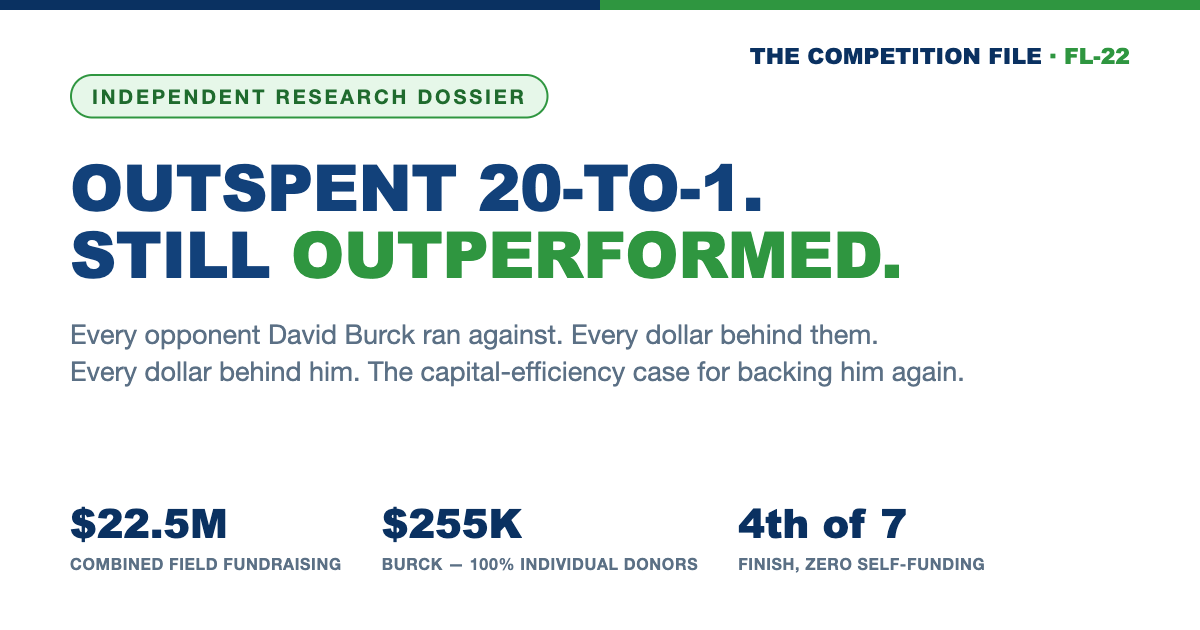
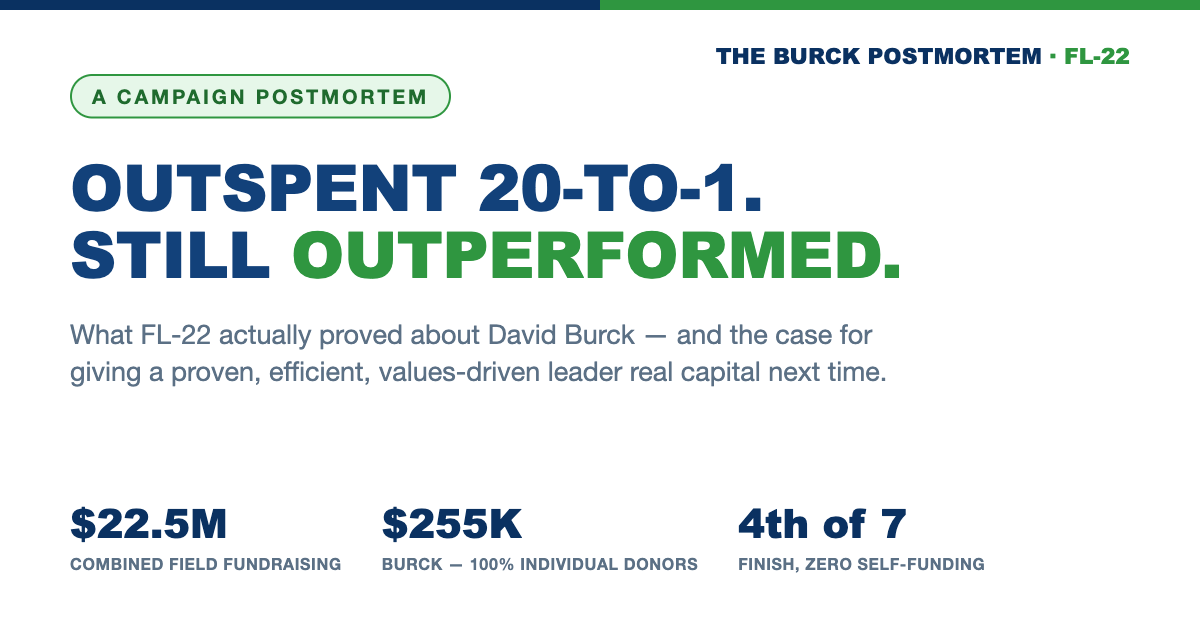
Reframe site as campaign postmortem and investment thesis
Rename from opposition-research framing to a postmortem analysis:
new title/brand (The Burck Postmortem), rewritten hero and a new
"bigger picture" section making the case for backing David Burck as
a proven, capital-efficient, values-driven leader worth investing in
beyond just his next House race. Updated OG thumbnail to match.

Generated with [Devin](https://devin.ai)

Changed region(s): [[0.0617, 0.5127, 0.8017, 0.6333], [0.0617, 0.0905, 0.4625, 0.2111], [0.5858, 0.0603, 0.8633, 0.1206]]

diff --git a/index.html b/index.html
@@ -3,14 +3,14 @@
 <head>
 <meta charset="UTF-8">
 <meta name="viewport" content="width=device-width, initial-scale=1.0">
-<title>The Case for Capital: David Burck, FL-22</title>
-<meta name="description" content="An independent research dossier on the 2026 FL-22 Republican primary: David Burck's competition, every dollar behind them, every dollar behind him, and the capital-efficiency case for backing him again.">
-<meta property="og:title" content="The Case for Capital: David Burck, FL-22">
-<meta property="og:description" content="Every opponent. Every dollar. The capital-efficiency case for David Burck's next run.">
-<meta property="og:image" content="https://aeventures.github.io/burck-opposition-report/assets/og.png">
+<title>The Burck Postmortem — A Campaign Analysis & The Case for What's Next</title>
+<meta name="description" content="A postmortem analysis of David Burck's 2026 FL-22 campaign: what happened, what it revealed about his ability as a candidate, and why Christians and politically engaged donors looking for a leader worth backing all the way to the top of the ticket should be paying attention.">
+<meta property="og:title" content="The Burck Postmortem — A Campaign Analysis & The Case for What's Next">
+<meta property="og:description" content="What FL-22 actually proved about David Burck — and why properly capitalized, he could be one of the most consequential political leaders of his generation.">
+<meta property="og:image" content="https://aeventures.github.io/burck-postmortem/assets/og.png">
 <meta property="og:image:width" content="1200">
 <meta property="og:image:height" content="630">
-<meta property="og:url" content="https://aeventures.github.io/burck-opposition-report/">
+<meta property="og:url" content="https://aeventures.github.io/burck-postmortem/">
 <meta property="og:type" content="website">
 <meta name="twitter:card" content="summary_large_image">
 <link rel="stylesheet" href="css/style.css">
@@ -18,10 +18,10 @@
 <body>
 <header class="site">
   <div class="wrap">
-    <div class="brand">THE COMPETITION FILE <span>· FL-22</span></div>
+    <div class="brand">THE BURCK POSTMORTEM <span>· FL-22</span></div>
     <nav class="main">
       <a href="index.html" class="active">Thesis</a>
-      <a href="opponents.html">The Competition</a>
+      <a href="opponents.html">The Field</a>
       <a href="money.html">The Money</a>
       <a href="donors.html">Burck's Donors</a>
       <a href="treasurer-reports.html">Treasurer's Reports</a>
@@ -34,19 +34,22 @@
 
 <section class="hero">
   <div class="wrap">
-    <span class="eyebrow">Independent Research Dossier · 2026 Cycle</span>
-    <h1>Outspent 20-to-1. Still <span class="accent">outperformed</span> half the field.</h1>
+    <span class="eyebrow">A Campaign Postmortem · 2026 Cycle</span>
+    <h1>He was outspent 20-to-1. He still <span class="accent">outperformed</span> half the field.</h1>
     <p class="lede">
-      David Burck ran for Florida's 22nd Congressional District against a field that raised and spent
-      roughly <strong>$22.5 million</strong> combined — most of it self-funded by millionaires or backed
-      by outside Super PACs. Burck raised <strong>$255,073</strong>, entirely from individual donors,
-      with <strong>zero</strong> PAC money and <strong>zero</strong> personal loans, and still out-drew
-      three better-funded rivals at the ballot box. This site documents exactly who and what stood in his
-      way — dollar for dollar — and makes the case that properly capitalized, he is a serious contender.
+      This is not opposition research. It's a postmortem — a clear-eyed look back at David Burck's 2026
+      run in Florida's 22nd Congressional District, what it actually proved about him as a candidate, and
+      what it means for what comes next. David raised <strong>$255,073</strong>, entirely from individual
+      donors, with <strong>zero</strong> PAC money and <strong>zero</strong> personal loans, in a field that
+      raised and spent roughly <strong>$22.5 million</strong> combined — most of it self-funded by
+      millionaires or backed by outside Super PACs. He still out-drew three better-funded rivals at the
+      ballot box. This site lays out exactly what happened, dollar for dollar, and makes the case that a
+      candidate this efficient, properly capitalized, is worth serious, sustained investment — not just for
+      the next House race, but for whatever comes after it.
     </p>
     <div class="cta-row">
       <a class="btn gold" href="efficiency.html">See the efficiency case →</a>
-      <a class="btn ghost" href="opponents.html">Meet the competition</a>
+      <a class="btn ghost" href="opponents.html">Understand the field →</a>
     </div>
   </div>
 </section>
@@ -110,6 +113,42 @@
       the purpose of briefing David Burck and his team on the competitive and financial landscape of his
       2026 race. It is not paid for by, or coordinated with, any campaign or committee. Every figure links
       to a primary source — see the <a href="sources.html">Sources &amp; Methodology</a> page.
+    </div>
+  </div>
+</section>
+
+<section>
+  <div class="wrap">
+    <div class="section-head">
+      <span class="kicker">The bigger picture</span>
+      <h2>This isn't just about one House race</h2>
+      <p class="dim">This is where the postmortem turns into an argument. It's this site's opinion — not a
+      neutral fact — but it's an opinion built directly on the numbers in the previous pages, and it's why
+      we think anyone thinking seriously about the future of conservative, Christian-aligned political
+      leadership should be paying attention to David Burck right now.</p>
+    </div>
+    <p>A Marine. A gang detective. A small business owner. A man who ran on service, not self-promotion, and
+    built a campaign entirely out of people who chose to back him with their own money — no self-funding,
+    no PAC checks, no shortcuts. And on a fraction of the resources of the candidates who beat him, he still
+    out-drew three of them. That combination — character, service, discipline under pressure, and proven
+    capital efficiency — is rare. Most candidates who raise this efficiently never get tested against a
+    field this well-funded. David has been, and the numbers held up.</p>
+    <p>Christians, business leaders, and politically engaged donors who say they want leaders of real
+    character in office, and who say they want their money to actually move the needle, have direct
+    evidence in front of them of both: a candidate whose values are consistent with public service before
+    ambition, and hard data showing he converts capital into results better than almost anyone else in this
+    race did. The honest read of David Burck's 2026 campaign isn't "he lost." It's "he was never properly
+    capitalized to compete with self-funded millionaires and national Super PACs — and he still nearly did."
+    Give a proven, efficient, values-driven leader like David real resources, and it is a legitimate,
+    numbers-backed question whether there is a ceiling on what he could accomplish — up to and including the
+    national stage.</p>
+    <div class="callout">
+      <strong>The ask.</strong><br><br>
+      If you are a donor, pastor, business leader, or political operative who believes the next generation
+      of conservative leadership should be built on service and character rather than personal wealth or
+      Super PAC dependency — David Burck is exactly the kind of candidate that thesis is supposed to
+      identify. Read the numbers for yourself, share this analysis with people who can act on it, and help
+      make sure the next time David runs, capital is no longer the variable holding him back.
     </div>
   </div>
 </section>

diff --git a/opponents.html b/opponents.html
@@ -3,18 +3,18 @@
 <head>
 <meta charset="UTF-8">
 <meta name="viewport" content="width=device-width, initial-scale=1.0">
-<title>The Competition — FL-22 Republican Primary Field</title>
-<meta property="og:title" content="The Competition — FL-22 Republican Primary Field">
-<meta property="og:image" content="https://aeventures.github.io/burck-opposition-report/assets/og.png">
+<title>The Field — What David Burck Was Up Against in FL-22</title>
+<meta property="og:title" content="The Field — What David Burck Was Up Against in FL-22">
+<meta property="og:image" content="https://aeventures.github.io/burck-postmortem/assets/og.png">
 <link rel="stylesheet" href="css/style.css">
 </head>
 <body>
 <header class="site">
   <div class="wrap">
-    <div class="brand">THE COMPETITION FILE <span>· FL-22</span></div>
+    <div class="brand">THE BURCK POSTMORTEM <span>· FL-22</span></div>
     <nav class="main">
       <a href="index.html">Thesis</a>
-      <a href="opponents.html" class="active">The Competition</a>
+      <a href="opponents.html" class="active">The Field</a>
       <a href="money.html">The Money</a>
       <a href="donors.html">Burck's Donors</a>
       <a href="treasurer-reports.html">Treasurer's Reports</a>
@@ -27,12 +27,13 @@
 
 <section class="hero" style="padding-bottom:20px;">
   <div class="wrap">
-    <span class="eyebrow">Field Report</span>
-    <h1>Everyone who stood in David's way.</h1>
-    <p class="lede">Seven Republicans qualified for the August 18, 2026 primary in FL-22. Here is every one
-    of them — where they came from, what they'd built, how much they raised, and exactly where they
-    finished. David Burck placed <strong>4th of 7</strong>, ahead of three rivals, despite being outspent
-    by all three candidates who beat him.</p>
+    <span class="eyebrow">Postmortem · The Field</span>
+    <h1>Understanding exactly who David ran against.</h1>
+    <p class="lede">Seven Republicans qualified for the August 18, 2026 primary in FL-22. To fairly evaluate
+    David's performance, you have to understand who else was in the race — where they came from, what
+    they'd built, how much they raised, and exactly where they finished. David Burck placed
+    <strong>4th of 7</strong>, ahead of three rivals, despite being outspent by all three candidates who
+    beat him.</p>
   </div>
 </section>
 

diff --git a/sources.html b/sources.html
@@ -4,17 +4,17 @@
 <meta charset="UTF-8">
 <meta name="viewport" content="width=device-width, initial-scale=1.0">
 <title>Sources &amp; Methodology</title>
-<meta property="og:title" content="Sources & Methodology — The Competition File">
-<meta property="og:image" content="https://aeventures.github.io/burck-opposition-report/assets/og.png">
+<meta property="og:title" content="Sources & Methodology — The Burck Postmortem">
+<meta property="og:image" content="https://aeventures.github.io/burck-postmortem/assets/og.png">
 <link rel="stylesheet" href="css/style.css">
 </head>
 <body>
 <header class="site">
   <div class="wrap">
-    <div class="brand">THE COMPETITION FILE <span>· FL-22</span></div>
+    <div class="brand">THE BURCK POSTMORTEM <span>· FL-22</span></div>
     <nav class="main">
       <a href="index.html">Thesis</a>
-      <a href="opponents.html">The Competition</a>
+      <a href="opponents.html">The Field</a>
       <a href="money.html">The Money</a>
       <a href="donors.html">Burck's Donors</a>
       <a href="treasurer-reports.html">Treasurer's Reports</a>

diff --git a/treasurer-reports.html b/treasurer-reports.html
@@ -5,16 +5,16 @@
 <meta name="viewport" content="width=device-width, initial-scale=1.0">
 <title>Treasurer's Reports — Every Committee, Line by Line</title>
 <meta property="og:title" content="Treasurer's Reports — Every Committee, Line by Line">
-<meta property="og:image" content="https://aeventures.github.io/burck-opposition-report/assets/og.png">
+<meta property="og:image" content="https://aeventures.github.io/burck-postmortem/assets/og.png">
 <link rel="stylesheet" href="css/style.css">
 </head>
 <body>
 <header class="site">
   <div class="wrap">
-    <div class="brand">THE COMPETITION FILE <span>· FL-22</span></div>
+    <div class="brand">THE BURCK POSTMORTEM <span>· FL-22</span></div>
     <nav class="main">
       <a href="index.html">Thesis</a>
-      <a href="opponents.html">The Competition</a>
+      <a href="opponents.html">The Field</a>
       <a href="money.html">The Money</a>
       <a href="donors.html">Burck's Donors</a>
       <a href="treasurer-reports.html" class="active">Treasurer's Reports</a>

diff --git a/money.html b/money.html
@@ -5,16 +5,16 @@
 <meta name="viewport" content="width=device-width, initial-scale=1.0">
 <title>The Money — Every Dollar Behind the Field, FL-22</title>
 <meta property="og:title" content="The Money — Every Dollar Behind the Field, FL-22">
-<meta property="og:image" content="https://aeventures.github.io/burck-opposition-report/assets/og.png">
+<meta property="og:image" content="https://aeventures.github.io/burck-postmortem/assets/og.png">
 <link rel="stylesheet" href="css/style.css">
 </head>
 <body>
 <header class="site">
   <div class="wrap">
-    <div class="brand">THE COMPETITION FILE <span>· FL-22</span></div>
+    <div class="brand">THE BURCK POSTMORTEM <span>· FL-22</span></div>
     <nav class="main">
       <a href="index.html">Thesis</a>
-      <a href="opponents.html">The Competition</a>
+      <a href="opponents.html">The Field</a>
       <a href="money.html" class="active">The Money</a>
       <a href="donors.html">Burck's Donors</a>
       <a href="treasurer-reports.html">Treasurer's Reports</a>

diff --git a/donors.html b/donors.html
@@ -5,16 +5,16 @@
 <meta name="viewport" content="width=device-width, initial-scale=1.0">
 <title>David Burck's Donors — Every Name, Every Dollar</title>
 <meta property="og:title" content="David Burck's Donors — Every Name, Every Dollar">
-<meta property="og:image" content="https://aeventures.github.io/burck-opposition-report/assets/og.png">
+<meta property="og:image" content="https://aeventures.github.io/burck-postmortem/assets/og.png">
 <link rel="stylesheet" href="css/style.css">
 </head>
 <body>
 <header class="site">
   <div class="wrap">
-    <div class="brand">THE COMPETITION FILE <span>· FL-22</span></div>
+    <div class="brand">THE BURCK POSTMORTEM <span>· FL-22</span></div>
     <nav class="main">
       <a href="index.html">Thesis</a>
-      <a href="opponents.html">The Competition</a>
+      <a href="opponents.html">The Field</a>
       <a href="money.html">The Money</a>
       <a href="donors.html" class="active">Burck's Donors</a>
       <a href="treasurer-reports.html">Treasurer's Reports</a>

diff --git a/videos.html b/videos.html
@@ -5,16 +5,16 @@
 <meta name="viewport" content="width=device-width, initial-scale=1.0">
 <title>David Burck on Video — Campaign &amp; Media Library</title>
 <meta property="og:title" content="David Burck on Video — Campaign & Media Library">
-<meta property="og:image" content="https://aeventures.github.io/burck-opposition-report/assets/og.png">
+<meta property="og:image" content="https://aeventures.github.io/burck-postmortem/assets/og.png">
 <link rel="stylesheet" href="css/style.css">
 </head>
 <body>
 <header class="site">
   <div class="wrap">
-    <div class="brand">THE COMPETITION FILE <span>· FL-22</span></div>
+    <div class="brand">THE BURCK POSTMORTEM <span>· FL-22</span></div>
     <nav class="main">
       <a href="index.html">Thesis</a>
-      <a href="opponents.html">The Competition</a>
+      <a href="opponents.html">The Field</a>
       <a href="money.html">The Money</a>
       <a href="donors.html">Burck's Donors</a>
       <a href="treasurer-reports.html">Treasurer's Reports</a>

diff --git a/efficiency.html b/efficiency.html
@@ -5,16 +5,16 @@
 <meta name="viewport" content="width=device-width, initial-scale=1.0">
 <title>The Efficiency Case for David Burck</title>
 <meta property="og:title" content="The Efficiency Case for David Burck">
-<meta property="og:image" content="https://aeventures.github.io/burck-opposition-report/assets/og.png">
+<meta property="og:image" content="https://aeventures.github.io/burck-postmortem/assets/og.png">
 <link rel="stylesheet" href="css/style.css">
 </head>
 <body>
 <header class="site">
   <div class="wrap">
-    <div class="brand">THE COMPETITION FILE <span>· FL-22</span></div>
+    <div class="brand">THE BURCK POSTMORTEM <span>· FL-22</span></div>
     <nav class="main">
       <a href="index.html">Thesis</a>
-      <a href="opponents.html">The Competition</a>
+      <a href="opponents.html">The Field</a>
       <a href="money.html">The Money</a>
       <a href="donors.html">Burck's Donors</a>
       <a href="treasurer-reports.html">Treasurer's Reports</a>

diff --git a/og-card.html b/og-card.html
@@ -70,11 +70,11 @@
 </head>
 <body>
   <div class="top-bar"></div>
-  <div class="brand-tag">THE COMPETITION FILE <span>· FL-22</span></div>
+  <div class="brand-tag">THE BURCK POSTMORTEM <span>· FL-22</span></div>
   <div class="content">
-    <span class="eyebrow">Independent Research Dossier</span>
+    <span class="eyebrow">A Campaign Postmortem</span>
     <h1>Outspent 20-to-1.<br>Still <span class="accent">Outperformed.</span></h1>
-    <p class="lede">Every opponent David Burck ran against. Every dollar behind them.<br>Every dollar behind him. The capital-efficiency case for backing him again.</p>
+    <p class="lede">What FL-22 actually proved about David Burck — and the case for<br>giving a proven, efficient, values-driven leader real capital next time.</p>
   </div>
   <div class="stats">
     <div class="stat"><div class="num">$22.5M</div><div class="label">Combined field fundraising</div></div>
